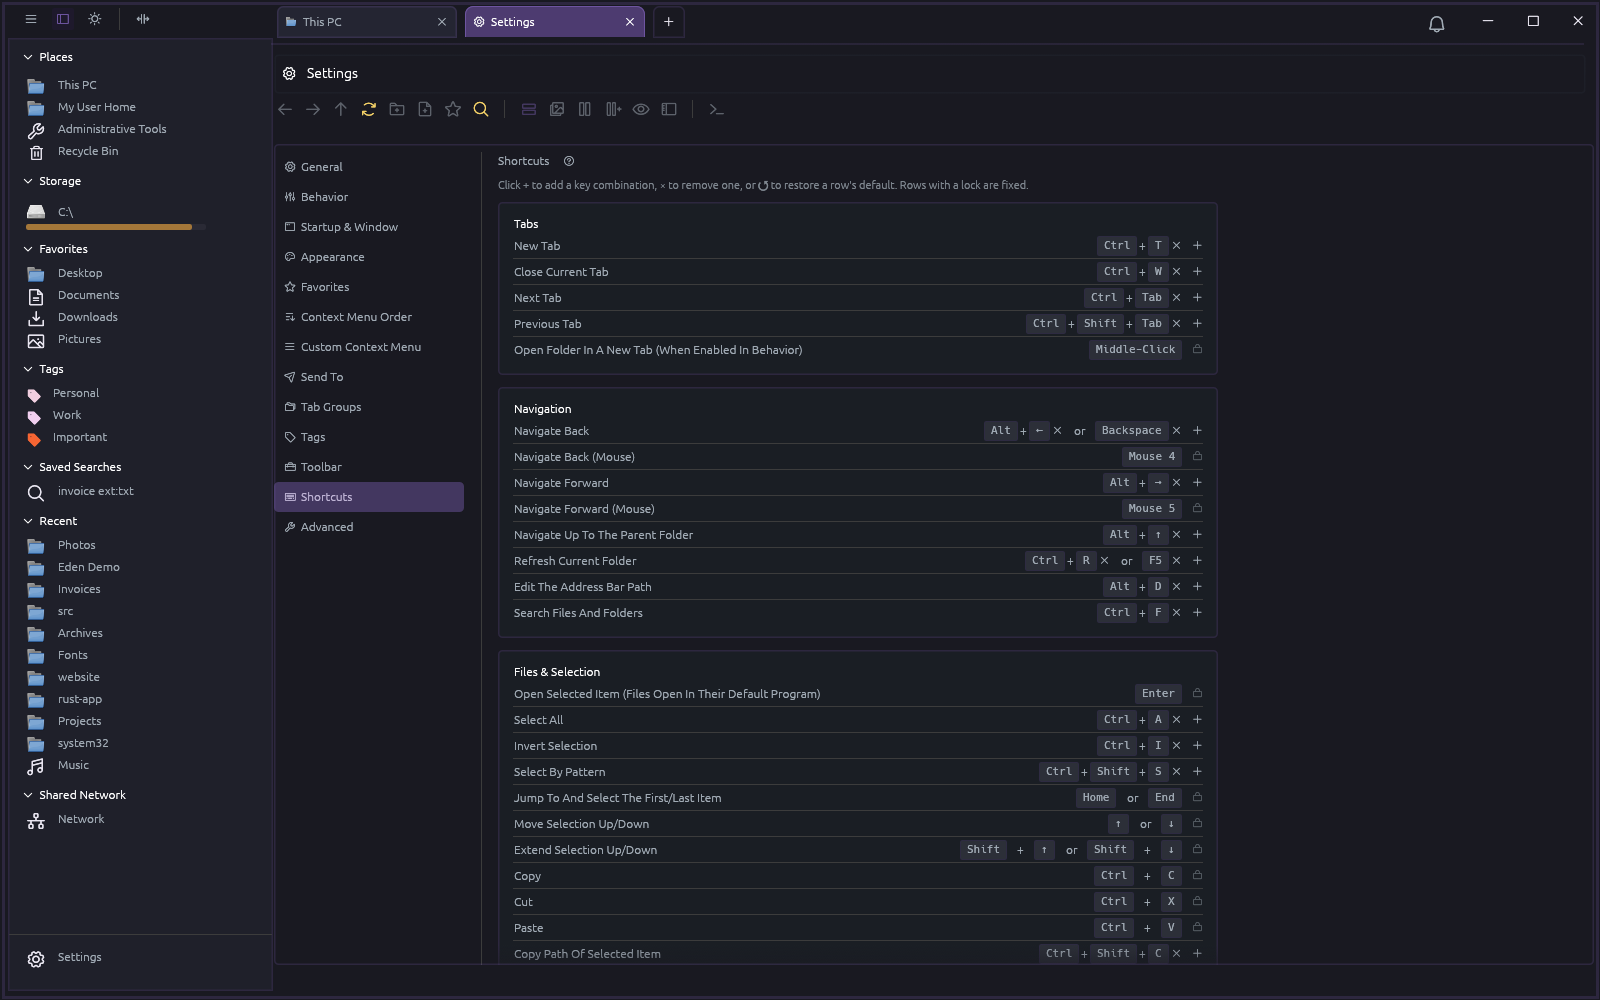
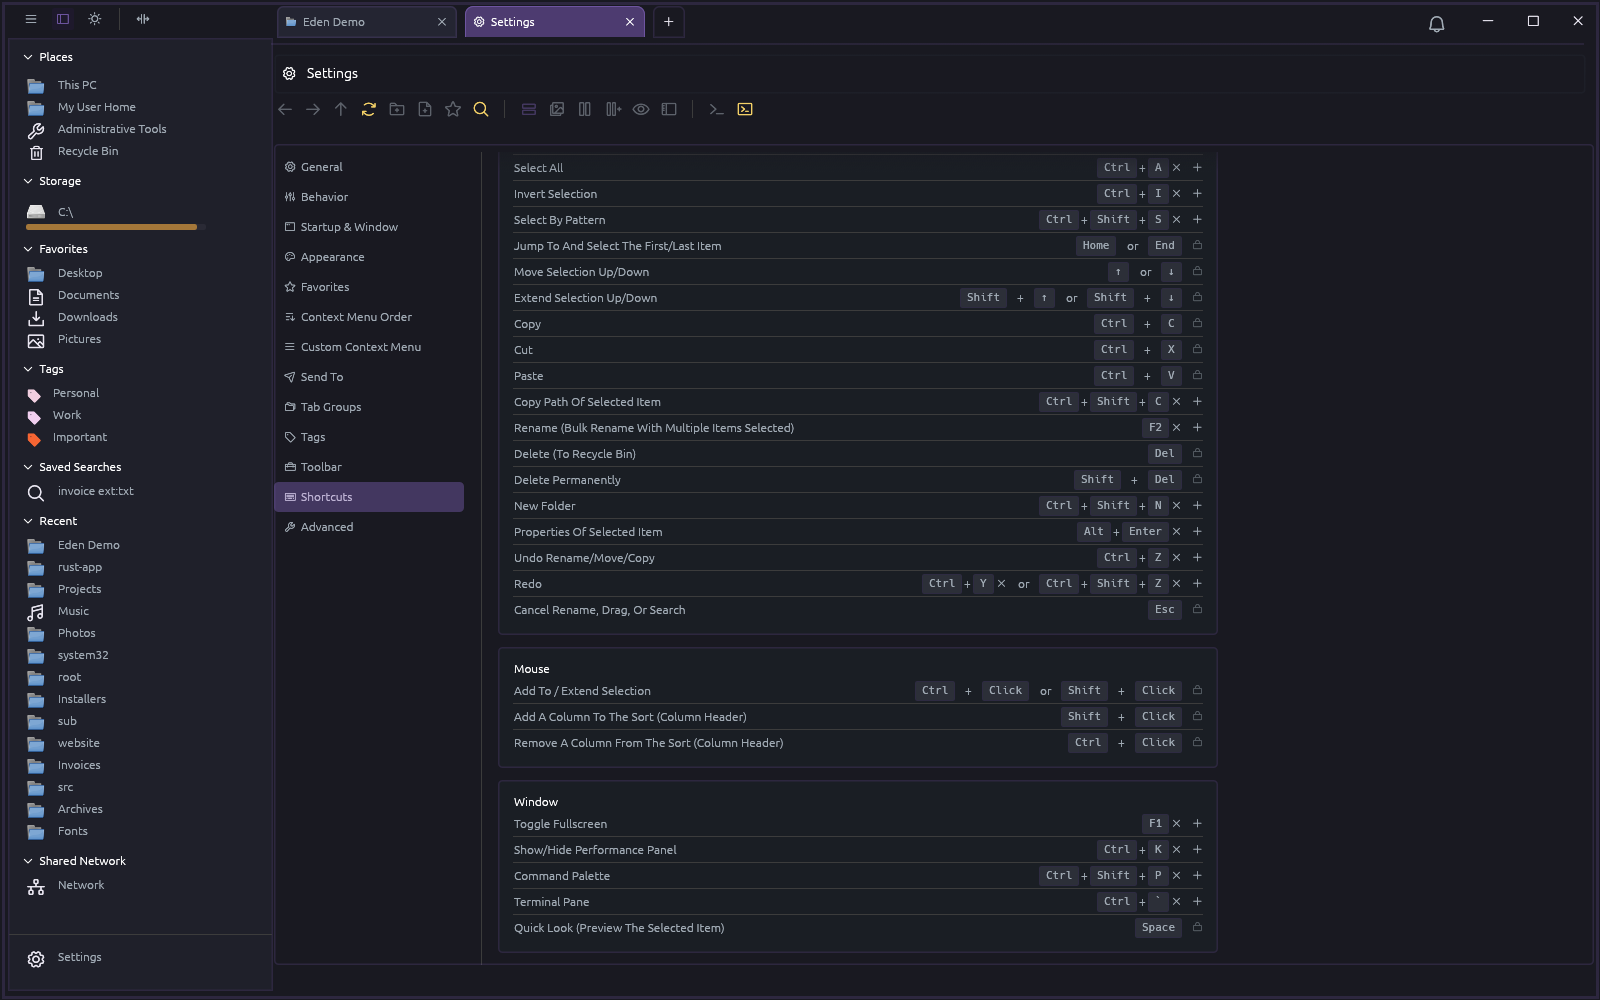
Update screenshots, GIFs and docs for today's features
- New GIFs: breadcrumb folder menus, terminal pane (shells, session tabs,
  resize, hide/show). Archive-preview GIF and screenshot 81 retaken in the
  current preview-frame style.
- New screenshots: 88 (Terminal Font Size / Terminal Font), 89 (Breadcrumb
  Folder Menus setting); 39 retaken with the Terminal Pane shortcut.
- Shortcut labels show the backtick key as ` instead of "Backtick".
- README: screenshot table gains the terminal pane and archive preview,
  GIF list and count updated; FEATURES and Screenshots/README updated.

Claude-Session: https://claude.ai/code/session_01NnbUtrCJDbJrzn3g1Wvtm7

diff --git a/src/core/keymap.rs b/src/core/keymap.rs
@@ -79,6 +79,7 @@ pub fn key_label(key: egui::Key) -> String {
         egui::Key::ArrowDown => "↓".into(),
         egui::Key::Backspace => "Backspace".into(),
         egui::Key::Enter => "Enter".into(),
+        egui::Key::Backtick => "`".into(),
         other => other.name().to_string(),
     }
 }

diff --git a/Screenshots/README.md b/Screenshots/README.md
@@ -54,13 +54,25 @@ Right-click a zip > Extract To "Holiday Photos\\" (progress in the notifications
 
 ![Archive preview with file icons](archive-preview.gif)
 
-Selecting a zip shows its contents in the preview pane as a tree with Material Icon Theme icons (as in VS Code): collapsing src and node_modules, Collapse All, opening the top folder, Expand All, then the same for a tar.gz, in the dark and light themes.
+Selecting a zip shows its contents in the preview pane, inside the rounded preview frame, as a tree with Material Icon Theme icons (as in VS Code): collapsing src and node_modules, Collapse All, opening the top folder and docs, Expand All, then the same for a tar.gz, in the dark and light themes.
 
 ## Queued And Verified Copies
 
 ![Queued and verified copies](transfers.gif)
 
 Copying a 180 MB folder to Documents and then to Desktop: the second copy waits as "Queued #1" (with sooner/later/cancel buttons and Pause All in the header) until the first finishes, and with Verify Copies on each one ends with "Verified 3 files".
+
+## Breadcrumb Folder Menus
+
+![Breadcrumb folder menus](breadcrumbs.gif)
+
+From Photos, the arrow after Eden Demo lists its folders (Photos highlighted) and Music is picked; the arrow after Documents shows Eden Demo on the path; then Eden Demo > Projects, and the arrow at the end lists Projects' own folders to open rust-app.
+
+## Terminal Pane
+
+![Terminal pane](terminal.gif)
+
+Ctrl+` opens the pane with the default shell (PowerShell 7 with an Oh My Posh-style prompt, its icons from the automatically chosen Nerd Font); dragging the top edge makes it taller; the + menu lists every installed shell and starts Ubuntu (WSL) in a second session tab; switching tabs, selecting text, then Ctrl+` hides the pane and the toolbar's Terminal Pane button brings it back with both shells still there. Under Wine the shells can't take input, so the shell output here was fed to the terminal directly.
 
 ## Features
 
@@ -216,7 +228,7 @@ Copying a 180 MB folder to Documents and then to Desktop: the second copy waits 
 
 ![Settings - Tags](38-settings-tags.png)
 
-### Settings - Shortcuts, where most shortcuts can be changed: + adds a key combination, × removes one, and locked rows are fixed
+### Settings - Shortcuts, where most shortcuts can be changed: + adds a key combination, × removes one, and locked rows are fixed; the Window group now includes Terminal Pane (Ctrl+`)
 
 ![Settings - Shortcuts](39-settings-shortcuts.png)
 
@@ -411,3 +423,11 @@ Copying a 180 MB folder to Documents and then to Desktop: the second copy waits 
 ### Terminal pane with an Oh My Posh-style prompt - powerline segments and Nerd Font icons, with Terminal Font on Automatic picking the installed Nerd Font (sample output fed to the terminal directly, as under Wine the shells can't take input)
 
 ![Terminal with Oh My Posh](87-terminal-oh-my-posh.png)
+
+### Settings - Behavior - Terminal Font Size and Terminal Font (Automatic picks an installed Nerd Font for prompt themes like Oh My Posh)
+
+![Terminal settings](88-terminal-settings.png)
+
+### Settings - General - Breadcrumb Folder Menus turns the address bar's > menus on or off
+
+![Breadcrumb Folder Menus setting](89-breadcrumb-setting.png)

diff --git a/README.md b/README.md
@@ -123,8 +123,9 @@
 | ![Performance panel](Screenshots/44-performance-panel.png) | ![Benchmark This Folder results](Screenshots/45-performance-benchmark.png) |
 | ![Analyze Disk Usage](Screenshots/57-disk-usage.png) | ![Disk Usage - Largest Files](Screenshots/60-disk-usage-largest-files.png) |
 | ![Disk Usage - Treemap](Screenshots/65-disk-usage-treemap.png) | ![Disk Usage - Overview](Screenshots/71-disk-usage-overview.png) |
+| ![Terminal pane with PowerShell 7 and Ubuntu](Screenshots/85-terminal-pane.png) | ![Archive preview with VS Code file icons](Screenshots/81-archive-preview-icons.png) |
 
-See the [Screenshots folder](Screenshots/README.md) for all 87 feature screenshots, plus short GIFs of [Analyze Disk Usage](Screenshots/disk-usage.gif), the [Performance panel folder and drive benchmarks](Screenshots/performance-benchmark.gif), the [animated GIF preview controls](Screenshots/gif-preview-controls.gif), [selection tools and New File templates](Screenshots/selection-and-templates.gif), [Quick Look](Screenshots/quick-look.gif), the [command palette](Screenshots/command-palette.gif), [extracting and browsing archives](Screenshots/archives.gif), [archive previews with VS Code file icons](Screenshots/archive-preview.gif), and [queued, verified copies](Screenshots/transfers.gif).
+See the [Screenshots folder](Screenshots/README.md) for all 89 feature screenshots, plus short GIFs of [Analyze Disk Usage](Screenshots/disk-usage.gif), the [Performance panel folder and drive benchmarks](Screenshots/performance-benchmark.gif), the [animated GIF preview controls](Screenshots/gif-preview-controls.gif), [selection tools and New File templates](Screenshots/selection-and-templates.gif), [Quick Look](Screenshots/quick-look.gif), the [command palette](Screenshots/command-palette.gif), [extracting and browsing archives](Screenshots/archives.gif), [archive previews with VS Code file icons](Screenshots/archive-preview.gif), [queued, verified copies](Screenshots/transfers.gif), [breadcrumb folder menus](Screenshots/breadcrumbs.gif), and the [terminal pane](Screenshots/terminal.gif).
 
 ## Star History
 

diff --git a/FEATURES.md b/FEATURES.md
@@ -78,7 +78,7 @@
   <li><b>Selection tools</b> - Invert Selection, Select By Pattern (wildcards), and checkboxes in Details and Gallery</li>
   <li><b>Hover previews</b> for images and videos in Details view</li>
   <li><b>Breadcrumb folder menus</b> - the <code>&gt;</code> arrows in the address bar list the folders inside each part, like Explorer (can be turned off in Settings &gt; General)</li>
-  <li><b>Terminal pane</b> (<code>Ctrl+`</code>) - Command Prompt, Windows PowerShell, PowerShell 7, Git Bash, and WSL (Ubuntu, ...) in session tabs docked under the file view, with colors, scrollback, selection, and Go To Current Folder</li>
+  <li><b>Terminal pane</b> (<code>Ctrl+`</code>) - Command Prompt, Windows PowerShell, PowerShell 7, Git Bash, and WSL (Ubuntu, ...) in session tabs docked under the file view, with colors, scrollback, selection, and Go To Current Folder; loads your PowerShell profile (Oh My Posh), Clink in Command Prompt, and a Nerd Font automatically for prompt icons</li>
   <li><b>Command palette</b> (<code>Ctrl+Shift+P</code>) - every command, view, toggle, and Settings page, plus favorite and recent folders, with fuzzy search</li>
   <li><b>Preview frame</b> - previews sit in a rounded, bordered frame; thickness, color, and corner radius are set in Settings &gt; Appearance, with the padding and inner corners worked out automatically</li>
   <li><b>Quick Look</b> - press Space for a large preview of the selected file or folder; arrow keys move through the list, Enter opens, Space or Esc closes</li>
